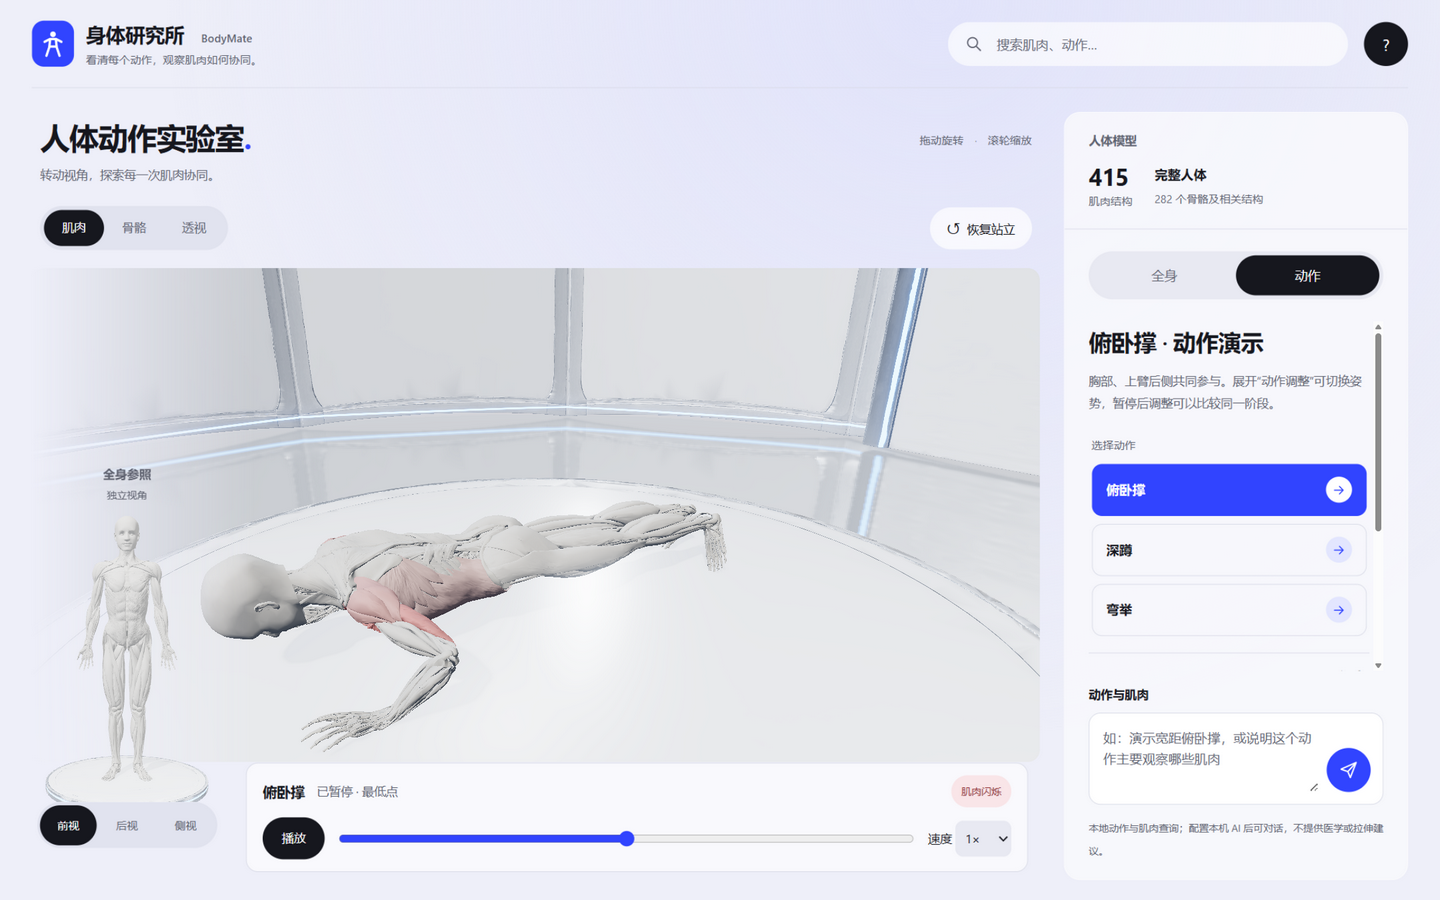
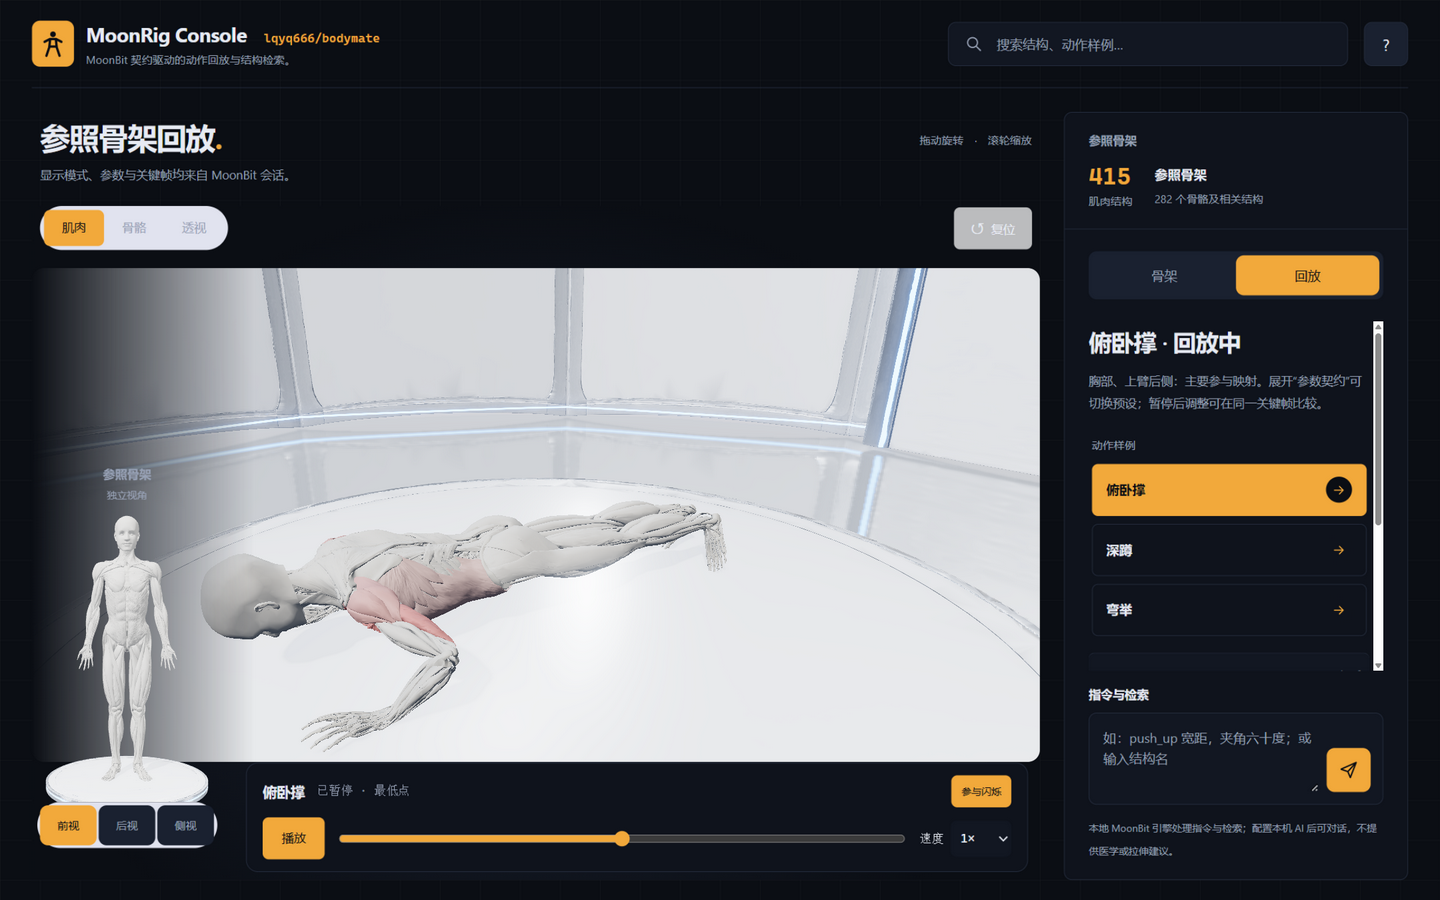
feat(console): engineering theme as the default look
Adds assets/theme-engineer.css, loaded after the lab skin when <body> carries theme-engineer (now the default): graphite chrome with a subtle grid, amber signal colour for pressed controls, tabular monospace readouts for phase, parameters and the contract summary, flatter corners and a dark stage behind the transparent canvas. Remove the body class to fall back to the light skin. README hero screenshot retaken in the new theme.

diff --git a/assets/theme-engineer.css b/assets/theme-engineer.css
@@ -1,0 +1,50 @@
+/* MoonRig Console engineering theme: graphite chrome, amber signal colour, tabular numerals.
+   Loaded after the lab skin; remove `theme-engineer` from <body> to fall back to the light skin. */
+body.theme-engineer{
+  --lab-ink:#e8ecf4;--lab-copy:#98a2b6;--lab-blue:#f2a93b;--lab-soft:#2a3346;--lab-bg:#0b0e14;--lab-line:#262e3f;--lab-surface:#121722;
+  --eng-panel:#0f131c;--eng-raised:#1a2130;--eng-hover:#242c3e;--eng-accent:#f2a93b;--eng-accent-ink:#0b0e14;
+  --eng-mono:'JetBrains Mono','Cascadia Mono','SFMono-Regular',ui-monospace,Menlo,Consolas,monospace;
+  color:var(--lab-ink);
+  background:
+    linear-gradient(to right,#ffffff07 1px,transparent 1px) 0 0/40px 40px,
+    linear-gradient(to bottom,#ffffff07 1px,transparent 1px) 0 0/40px 40px,
+    var(--lab-bg);
+}
+body.theme-engineer .header{border-bottom-color:var(--lab-line)}
+body.theme-engineer h1 span{color:var(--eng-accent);font-family:var(--eng-mono);font-weight:500;font-size:.62em;letter-spacing:0}
+body.theme-engineer .brand-mark{background:var(--eng-accent);color:var(--eng-accent-ink);border-radius:8px}
+body.theme-engineer .icon-button{background:var(--eng-raised);color:var(--lab-ink);border:1px solid var(--lab-line)}
+
+/* Surfaces */
+body.theme-engineer .sidebar{background:var(--eng-panel)!important;border:1px solid var(--lab-line)!important;border-radius:8px!important}
+body.theme-engineer .progress-mini{border-bottom-color:var(--lab-line)}
+body.theme-engineer :is(.anatomy-conversation,.anatomy-adjustments,.anatomy-phase-guide,.anatomy-dialogue,.anatomy-transport select,#chat-form,.lab-search,.lab-search:focus-within){background:var(--lab-surface)!important;border-color:var(--lab-line)!important;color:var(--lab-ink)}
+body.theme-engineer #chat-form textarea{color:var(--lab-ink);background:transparent}
+body.theme-engineer #chat-form textarea::placeholder,body.theme-engineer .lab-search input::placeholder{color:var(--lab-copy)}
+body.theme-engineer #chat-form button,body.theme-engineer #close-help{background:var(--eng-accent);color:var(--eng-accent-ink)}
+body.theme-engineer #help-dialog{background:var(--lab-surface);color:var(--lab-ink);border:1px solid var(--lab-line);border-radius:10px}
+body.theme-engineer .anatomy-playback{background:var(--eng-panel)!important;border:1px solid var(--lab-line)}
+body.theme-engineer .lab-domain-tabs{background:var(--eng-raised)}
+body.theme-engineer .detail-view{background:radial-gradient(ellipse at 50% 60%,#1a2130 0%,#0b0e14 72%)}
+
+/* Controls: graphite at rest, amber when pressed, lighter graphite on hover */
+body.theme-engineer :is(.anatomy-toolbar button,.anatomy-playback button,.anatomy-presets button,.anatomy-phase-steps button,.anatomy-examples button,.view-tabs button,.lab-domain-tabs button){background:var(--eng-raised);color:var(--lab-copy);border-color:var(--lab-line);box-shadow:none}
+body.theme-engineer .motion-button-arrow{background:var(--eng-panel);color:var(--eng-accent)}
+body.theme-engineer :is(.anatomy-views [aria-pressed=true],#anatomy-play,.anatomy-phase-steps button[aria-pressed=true],.anatomy-presets button[aria-pressed=true],.lab-domain-tabs button.active,.view-tabs button.active,.anatomy-examples button[aria-pressed=true],#anatomy-pulse[aria-pressed=true]){background:var(--eng-accent)!important;color:var(--eng-accent-ink)!important;border-color:transparent!important}
+body.theme-engineer .anatomy-examples button[aria-pressed=true] .motion-button-arrow{background:var(--eng-accent-ink)!important;color:var(--eng-accent)!important}
+body.theme-engineer :is(.anatomy-views button,.anatomy-presets button,.anatomy-phase-steps button,.anatomy-examples button,.view-tabs button,.lab-domain-tabs button):not([aria-pressed=true]):not(.active):not(:disabled):hover,
+body.theme-engineer #anatomy-reset:hover,body.theme-engineer .icon-button:hover{background:var(--eng-hover)!important;color:var(--lab-ink)!important;border-color:var(--lab-line)!important}
+body.theme-engineer .anatomy-examples button:not(:disabled):hover .motion-button-arrow{background:var(--eng-accent)!important;color:var(--eng-accent-ink)!important}
+body.theme-engineer .anatomy-dialogue strong{color:var(--eng-accent)}
+body.theme-engineer .full-muscle-answer strong,body.theme-engineer .anatomy-phase-heading strong{color:var(--lab-ink)}
+
+/* Readouts use tabular monospace so values line up like instrument panels */
+body.theme-engineer :is(#anatomy-motion-phase,.anatomy-parameter output,.anatomy-parameter-comparison,.lab-status-ring strong,.anatomy-adjustments summary span,.anatomy-transport label,.chat-context){font-family:var(--eng-mono);font-variant-numeric:tabular-nums;letter-spacing:0}
+body.theme-engineer .lab-status-ring strong{color:var(--eng-accent)}
+body.theme-engineer .anatomy-parameter input[type=range]{accent-color:var(--eng-accent)}
+body.theme-engineer #anatomy-progress{accent-color:var(--eng-accent)}
+body.theme-engineer .anatomy-muscle-legend span::before{filter:saturate(1.2)}
+
+/* Less consumer-app roundness */
+body.theme-engineer :is(.anatomy-examples button,.anatomy-presets button,.anatomy-phase-steps button,.anatomy-toolbar button,.anatomy-playback button,.anatomy-transport select,.anatomy-dialogue,.anatomy-adjustments,.anatomy-phase-guide){border-radius:6px!important}
+body.theme-engineer :is(.lab-search,.lab-domain-tabs,.lab-domain-tabs button,#chat-form,#chat-form button,#close-help,.icon-button,.view-tabs button){border-radius:8px!important}

diff --git a/assets/runtime/full-muscle-root-adapter.js b/assets/runtime/full-muscle-root-adapter.js
@@ -7,6 +7,7 @@
   document.body.classList.remove('exercise-demo-active'); document.body.classList.add('full-muscle-demo-active');
   const stylesheet = document.createElement('link'); stylesheet.rel = 'stylesheet'; stylesheet.href = 'assets/full-muscle.css'; document.head.append(stylesheet);
   if (document.body.classList.contains('visual-lab-active')) { const skin = document.createElement('link'); skin.rel = 'stylesheet'; skin.href = 'assets/visual-full-body.css?v=20260913-reference-ui'; document.head.append(skin); }
+  if (document.body.classList.contains('theme-engineer')) { const theme = document.createElement('link'); theme.rel = 'stylesheet'; theme.href = 'assets/theme-engineer.css?v=20260916-engineer'; document.head.append(theme); }
   const canvas = document.createElement('canvas'); canvas.id = 'full-muscle-canvas';
   canvas.setAttribute('aria-label', '参照骨架三维视图：拖动旋转，滚轮缩放'); detail.append(canvas);
   const loading = document.createElement('div'); loading.className = 'anatomy-loading'; loading.textContent = '正在加载参照骨架…'; detail.append(loading);

diff --git a/index.html b/index.html
@@ -7,7 +7,7 @@
   <title>MoonRig Console｜lqyq666/bodymate</title>
   <link rel="stylesheet" href="assets/visual-lab.css?v=20260913-reference-ui">
 </head>
-<body class="visual-lab-active full-muscle-demo-active">
+<body class="visual-lab-active full-muscle-demo-active theme-engineer">
 <div id="app">
   <header class="header">
     <div class="brand">

diff --git a/README.md b/README.md
@@ -4,7 +4,7 @@
 
 `lqyq666/bodymate` 是一组无依赖、可单独 `moon add` 的 MoonBit 库，外加一个使用它们的离线三维参照骨架应用（MoonRig Console）。库是主体，应用是证明：同一份 MoonBit 代码同时驱动浏览器页面、本地 AI 代理和纯命令行示例。
 
-![MoonRig Console：宽距俯卧撑停在最低点，胸大肌与肱三头肌以定性颜色高亮](docs/media/full-body-lab.png)
+![MoonRig Console（工程主题）：宽距俯卧撑停在最低点关键帧，胸大肌与肱三头肌按定性参与映射高亮，右侧为参数契约与指令面板](docs/media/full-body-lab.png)
 
 ```sh
 moon add lqyq666/bodymate
